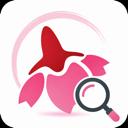
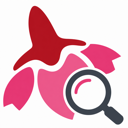
Harden content script lifecycle and UI
Guard extension resource URL resolution after reloads, keep the dropdown within the viewport, and refresh the square store icons.

diff --git a/src/content/ui.js b/src/content/ui.js
@@ -3,6 +3,13 @@
 // keydown/pointerdown each bound exactly once at init, full ARIA combobox pattern.
 // Keep status messages brief and clear in English.
 
+const MAX_DROPDOWN_HEIGHT = 420;
+const VIEWPORT_GAP = 8;
+
+export function dropdownMaxHeight(inputBottom, viewportHeight) {
+  return Math.max(0, Math.min(MAX_DROPDOWN_HEIGHT, viewportHeight - inputBottom - VIEWPORT_GAP));
+}
+
 export function createUI({ input, buildHref, onFill }) {
   const listId = "stnp-listbox";
   const box = document.createElement("div");
@@ -28,6 +35,7 @@ export function createUI({ input, buildHref, onFill }) {
     box.style.top = `${r.bottom + window.scrollY + 2}px`;
     // lock to the input's width — long entries (proverbs) must not widen the box
     box.style.width = `${r.width}px`;
+    box.style.maxHeight = `${dropdownMaxHeight(r.bottom, window.innerHeight)}px`;
   }
 
   function hide() {
@@ -175,6 +183,10 @@ export function createUI({ input, buildHref, onFill }) {
   window.addEventListener("resize", () => {
     if (!box.hidden) position();
   }, { passive: true });
+
+  document.addEventListener("scroll", () => {
+    if (!box.hidden) position();
+  }, { capture: true, passive: true });
 
   return { render, hide };
 }

diff --git a/src/content/main.js b/src/content/main.js
@@ -1,6 +1,6 @@
 // Content-script entry: mounting, lazy data loading, query routing
 // Mounts the enhanced search UI on the dictionary search form.
-import { CONFIG } from "./config.js";
+import { CONFIG, extensionResourceUrl } from "./config.js";
 import { createEngine } from "../search/engine.js";
 import { createUI } from "./ui.js";
 
@@ -13,6 +13,12 @@ function init() {
   const input = document.getElementById(CONFIG.INPUT_ID);
   const form = document.forms[CONFIG.FORM_NAME];
   if (!input || !form) return; // not a search page — stay fully idle
+
+  const dataUrl = extensionResourceUrl(globalThis.chrome?.runtime, CONFIG.DATA_URL);
+  if (!dataUrl) {
+    console.warn("[kautian-extension] extension context unavailable; reload the page");
+    return;
+  }
 
   const locale = getLocale();
   const luiEnabled = () => form.elements.lui?.value === CONFIG.LUI_ENABLED;
@@ -36,7 +42,7 @@ function init() {
   function ensureData() {
     if (engine || loading) return;
     loading = true;
-    fetch(chrome.runtime.getURL(CONFIG.DATA_URL))
+    fetch(dataUrl)
       .then((r) => {
         if (!r.ok) throw new Error(`HTTP ${r.status}`);
         return r.json();

diff --git a/src/content/config.js b/src/content/config.js
@@ -13,3 +13,11 @@ export const CONFIG = {
     return `/${locale}/su/${id}/`;
   },
 };
+
+export function extensionResourceUrl(runtime, path) {
+  try {
+    return typeof runtime?.getURL === "function" ? runtime.getURL(path) : null;
+  } catch {
+    return null;
+  }
+}

diff --git a/src/content/styles.css b/src/content/styles.css
@@ -3,6 +3,7 @@
 .stnp-dropdown {
   position: absolute;
   z-index: 10500; /* above bootstrap modal (1055) and host-site elements */
+  box-sizing: border-box;
   max-height: 420px;
   overflow-y: auto;
   background: #fff;
